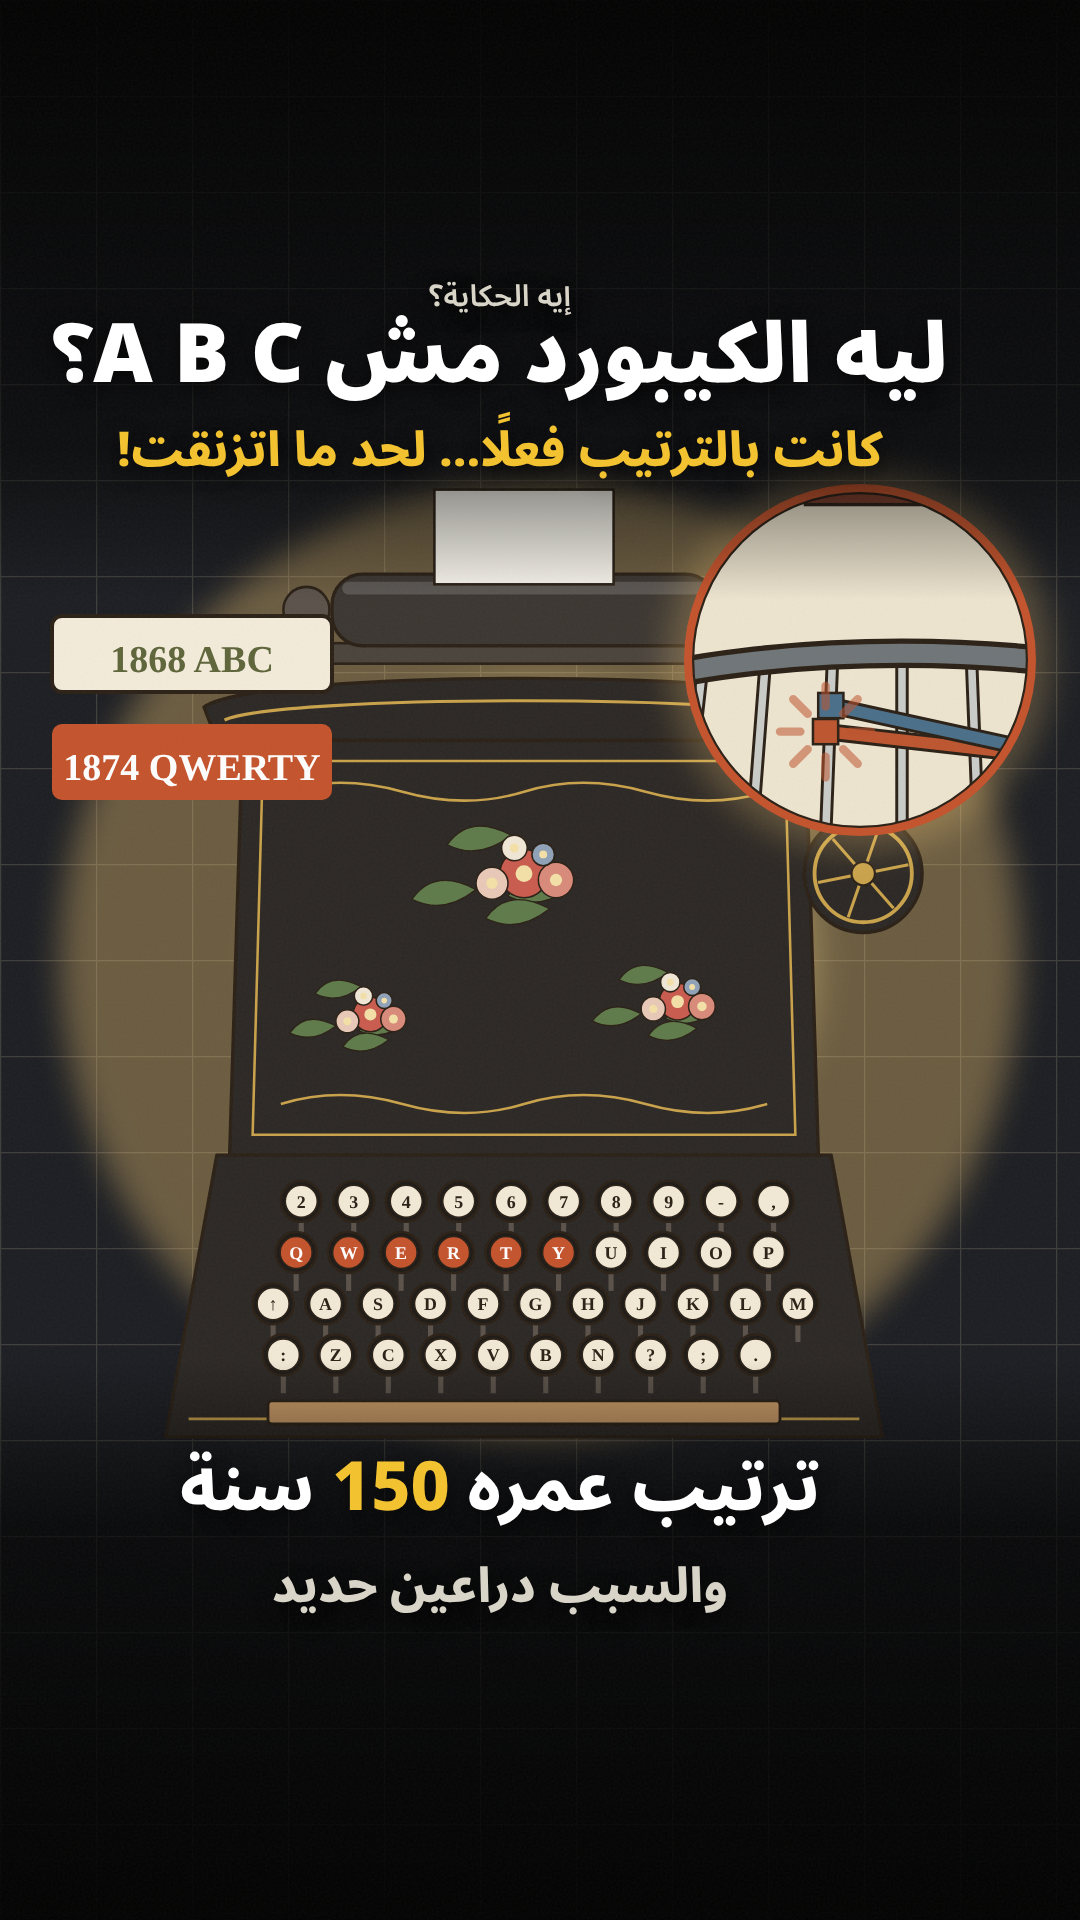
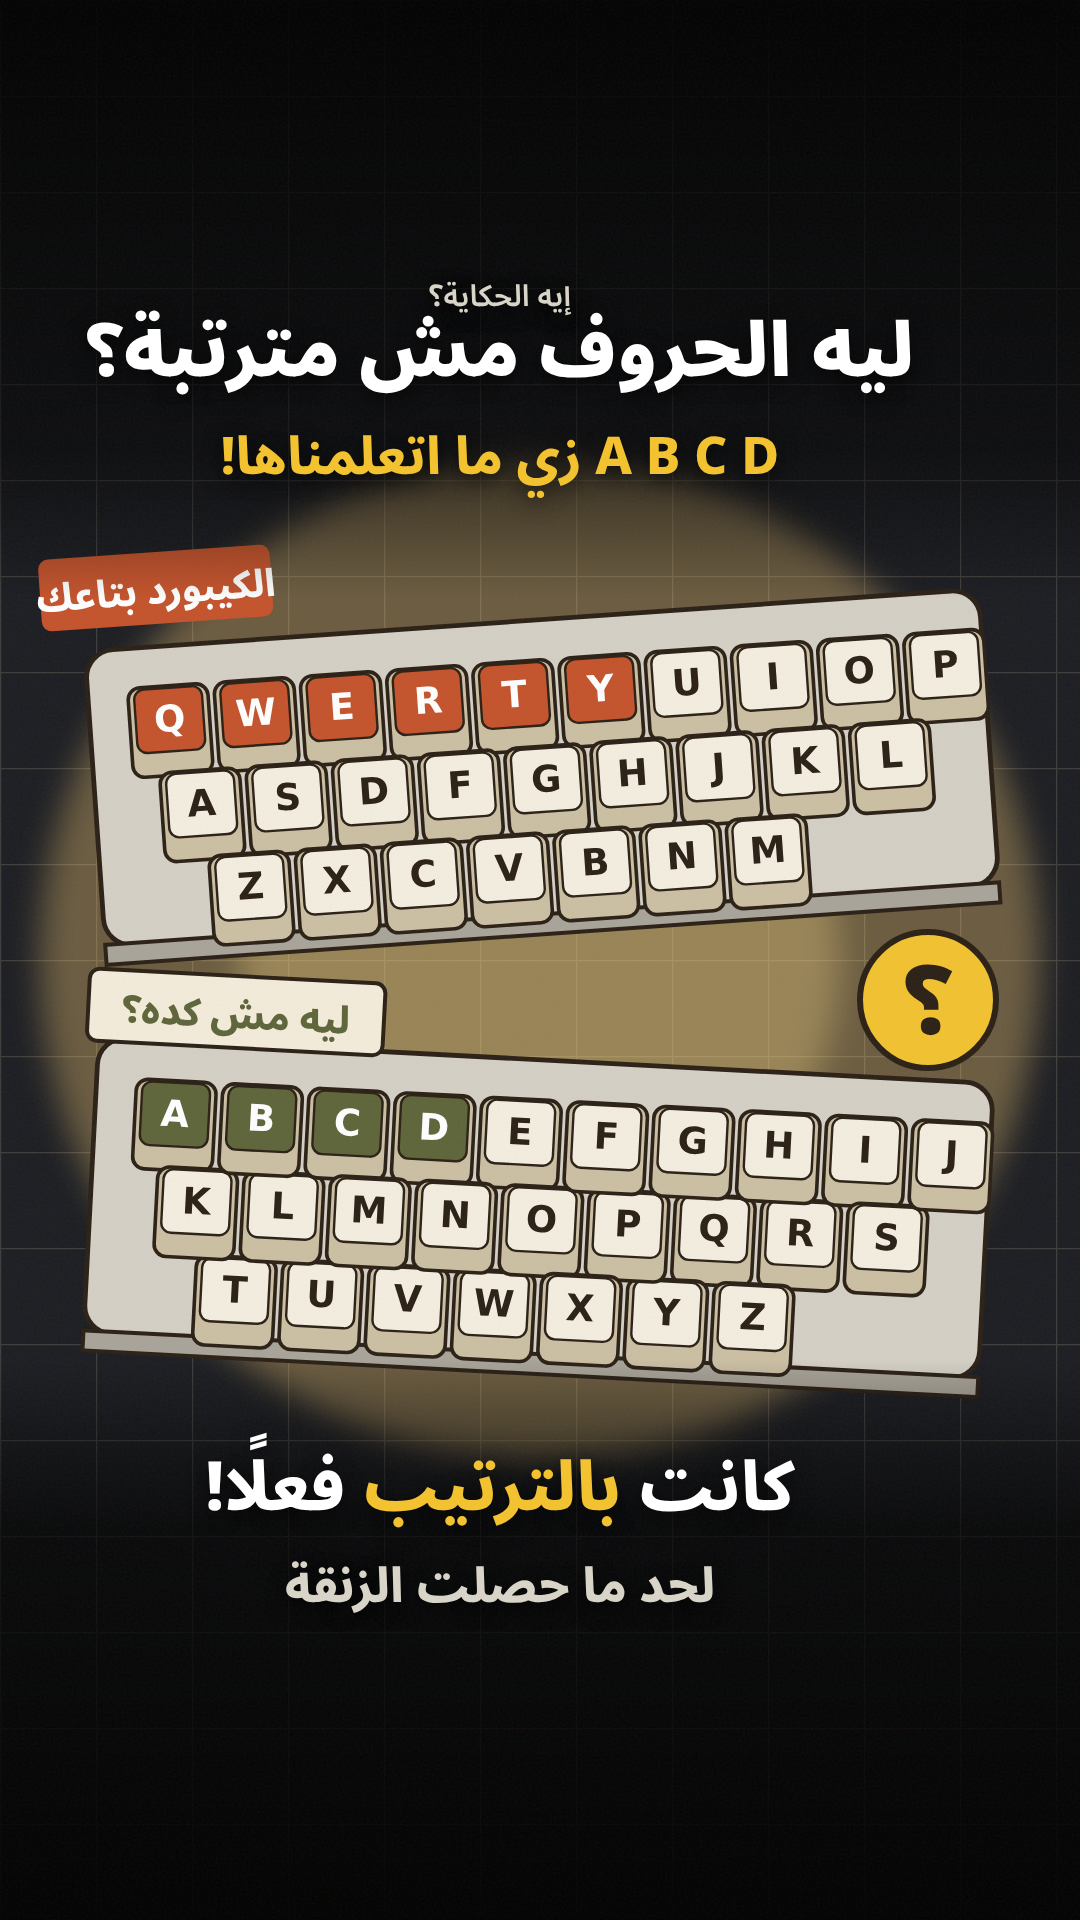
keyboard: cover with two keyboards (QWERTY over A B C) and the question on top
Claude-Session: https://claude.ai/code/session_016TN7FM1mgxYwLLyPBVDxjv

diff --git a/brand/eh-elhekaya/cover-keyboard-tiktok.html b/brand/eh-elhekaya/cover-keyboard-tiktok.html
@@ -3,7 +3,7 @@
 <link href="https://fonts.googleapis.com/css2?family=Noto+Sans+Arabic:wght@600;700;800;900&display=swap" rel="stylesheet">
 <style>
   /* the reel cover for the «اسكتش» keyboard video, full bleed 540×960 (1080×1920 at 2x): the tunnel-cover palette (near
-     black top and bottom, one warm glow behind the subject) with the diagram look (the episode's own drawings: the 1874 Sholes & Glidden with Q W E R T Y lit, and the two typebars jammed in the inset).
+     black top and bottom, one warm glow behind the subject) with the diagram look (the episode's own drawings: two keyboards one over the other: QWERTY lit orange, and the A B C one we expected).
      Everything that matters stays inside y 120–840 and away from the right-hand buttons. */
   body { margin: 0; background: #000; }
   .cover { position: relative; width: 540px; height: 960px; overflow: hidden; background: #000; }
@@ -13,9 +13,9 @@
 <div class="cover">
   <svg id="art" viewBox="0 0 540 960"></svg>
   <p class="t" style="top:132px;font:600 15px 'Noto Sans Arabic';color:#d9d4c8">إيه الحكاية؟</p>
-  <p class="t" style="top:154px;font:900 41px/1.2 'Noto Sans Arabic';color:#fff">ليه الكيبورد مش <span dir="ltr">A B C</span>؟</p>
-  <p class="t" style="top:210px;font:800 24px/1.3 'Noto Sans Arabic';color:#f2c230">كانت بالترتيب فعلًا… لحد ما اتزنقت!</p>
-  <p class="t" style="top:722px;font:800 34px/1.35 'Noto Sans Arabic';color:#fff">ترتيب عمره <span style="color:#f2c230">150</span> سنة<br><span style="font-size:24px;color:#d9d4c8">والسبب دراعين حديد</span></p>
+  <p class="t" style="top:154px;font:900 37px/1.2 'Noto Sans Arabic';color:#fff">ليه الحروف مش مترتبة؟</p>
+  <p class="t" style="top:212px;font:800 26px/1.3 'Noto Sans Arabic';color:#f2c230"><span dir="ltr">A B C D</span> زي ما اتعلمناها!</p>
+  <p class="t" style="top:722px;font:800 34px/1.35 'Noto Sans Arabic';color:#fff">كانت <span style="color:#f2c230">بالترتيب</span> فعلًا!<br><span style="font-size:24px;color:#d9d4c8">لحد ما حصلت الزنقة</span></p>
 </div>
 <svg width="0" height="0" style="position:absolute" aria-hidden="true"><defs>
   <pattern id="hatch" width="7" height="7" patternUnits="userSpaceOnUse" patternTransform="rotate(45)"><path d="M0 0 V7" stroke="#2b2b2b" stroke-width="1" opacity=".16"/></pattern>
@@ -34,17 +34,16 @@
 <script src="../../videos/keyboard/sketch/scenes.js"></script>
 <script>
   (function () {
-    var t = 66, s = "";
+    var t = 66, s = "", u = 40;
     s += '<rect width="540" height="960" fill="#1b1d22"/><rect width="540" height="960" fill="url(#grid)" opacity=".18"/>';
-    s += '<circle cx="270" cy="480" r="240" fill="#ffd27a" opacity=".35" filter="url(#soft)"/><circle cx="270" cy="480" r="140" fill="#ffe08a" opacity=".3" filter="url(#soft)"/>';
-    // the 1874 Sholes & Glidden, its top row lit: the layout the video explains
-    s += '<g transform="translate(262 488) scale(.64) translate(-320 -380)">' + sg1874(t, { hl: function (c, r) { return r === 1 && "QWERTY".indexOf(c) >= 0 ? "#c4532c" : null; } }) + '</g>';
-    // inset: the two typebars jammed under the platen
-    var ix = 430, iy = 330;
-    s += '<circle cx="' + ix + '" cy="' + iy + '" r="96" fill="#ffd27a" opacity=".25" filter="url(#soft)"/>' + inset(ix, iy, 84, '<g transform="scale(1.05) translate(-300 -330)">' + basket(t, { swing: function (i) { return i === iS ? .78 : i === iT ? .8 : 0; }, col: function (i) { return i === iS ? ORANGE : i === iT ? BLUE : null; } }) + (function () { var b = bar3(ringTheta(iS), .78).tip; return impact(b[0], b[1], .45); })() + '</g>', 1);
-    s += '<circle cx="' + ix + '" cy="' + iy + '" r="86" fill="none" stroke="#c4532c" stroke-width="4"/>';
-    s += '<g transform="translate(96 330)"><rect x="-70" y="-22" width="140" height="38" rx="5" fill="#f4ecdb" stroke="#2a2016" stroke-width="2"/><text x="0" y="6" text-anchor="middle" style="font:800 19px Noto Serif;fill:#5e653a;direction:ltr">1868 ABC</text></g>';
-    s += '<g transform="translate(96 384)"><rect x="-70" y="-22" width="140" height="38" rx="5" fill="#c4532c"/><text x="0" y="6" text-anchor="middle" style="font:800 19px Noto Serif;fill:#fff;direction:ltr">1874 QWERTY</text></g>';
+    s += '<circle cx="270" cy="480" r="250" fill="#ffd27a" opacity=".35" filter="url(#soft)"/><circle cx="270" cy="480" r="150" fill="#ffe08a" opacity=".3" filter="url(#soft)"/>';
+    // two keyboards one over the other: yours (QWERTY, scrambled, lit orange) and the A B C one we expected
+    var kx = 270 - 5.1 * u;
+    s += '<g transform="rotate(-4 270 370)">' + keyboard(kx, 330, u, 0, { hl: function (c) { return "QWERTY".indexOf(c) >= 0 ? "#c4532c" : null; } }) + '</g>';
+    s += '<g transform="rotate(3 270 590)">' + keyboard(kx, 550, u, 1, { hl: function (c) { return "ABCD".indexOf(c) >= 0 ? "#5e653a" : null; } }) + '</g>';
+    s += '<g transform="translate(78 296) rotate(-4)"><rect x="-58" y="-20" width="116" height="36" rx="5" fill="#c4532c"/><text x="0" y="6" text-anchor="middle" style="font:800 19px Noto Sans Arabic;fill:#fff">الكيبورد بتاعك</text></g>';
+    s += '<g transform="translate(118 508) rotate(3)"><rect x="-74" y="-20" width="148" height="36" rx="5" fill="#f4ecdb" stroke="#2a2016" stroke-width="2"/><text x="0" y="6" text-anchor="middle" style="font:800 19px Noto Sans Arabic;fill:#5e653a">ليه مش كده؟</text></g>';
+    s += '<g transform="translate(464 500)"><circle r="34" fill="#f2c230" stroke="#2a2016" stroke-width="3"/><text x="0" y="17" text-anchor="middle" style="font:900 48px Noto Sans Arabic;fill:#2a2016">؟</text></g>';
     s += '<defs><linearGradient id="fadeT" x1="0" y1="0" x2="0" y2="1"><stop offset="0" stop-color="#000" stop-opacity=".95"/><stop offset=".75" stop-color="#000" stop-opacity=".55"/><stop offset="1" stop-color="#000" stop-opacity="0"/></linearGradient>' +
          '<linearGradient id="fadeB" x1="0" y1="0" x2="0" y2="1"><stop offset="0" stop-color="#000" stop-opacity="0"/><stop offset=".3" stop-color="#000" stop-opacity=".7"/><stop offset="1" stop-color="#000" stop-opacity=".95"/></linearGradient></defs>';
     s += '<rect width="540" height="300" fill="url(#fadeT)"/><rect y="680" width="540" height="280" fill="url(#fadeB)"/>';
